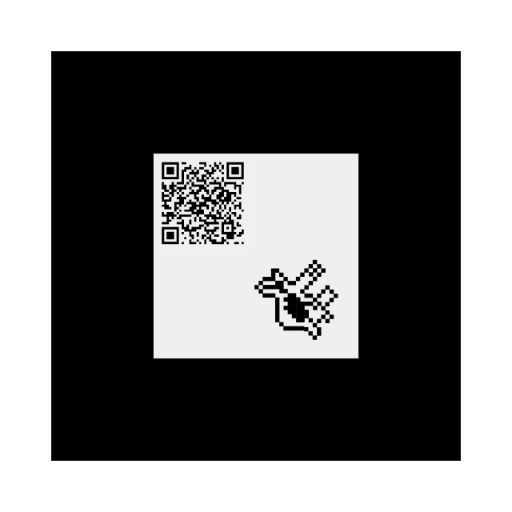
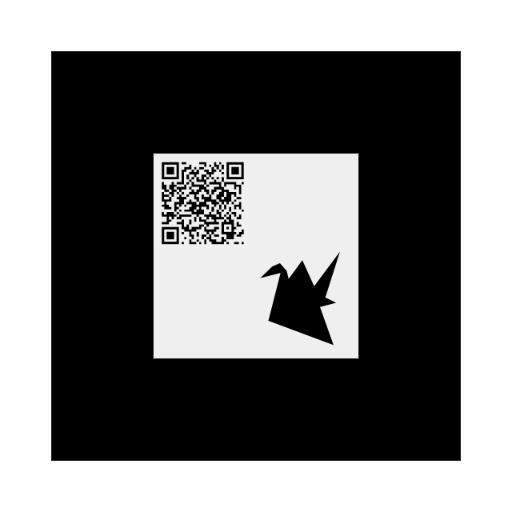
bug fixing: images pattern and index code

Changed region(s): [[0.5, 0.5, 0.6562, 0.6875]]

diff --git a/index.html b/index.html
@@ -15,8 +15,8 @@
         <img id="transpImageCapa4" src="Capa4.png">
       </a-assets>
 
-      <a-marker preset='custom' type='pattern' src="pattern_Origami_marker_qr.patt">
-      	
+      <a-marker preset='custom' type='pattern' url='https://innovacioneleven.github.io/ARjsTest/pattern_Origami_marker_qr.patt'>
+
       <a-image width="1" height="1" src="#transpImageFondo" position='0 0.5 0' rotation="-90 0 0" ></a-image>
       <a-image width="1" height="1" src="#transpImageCapa1" position='0 0.6 0' rotation="-90 0 0" ></a-image>
       <a-image width="1" height="1" src="#transpImageCapa2" position='0 0.7 0' rotation="-90 0 0" ></a-image>
